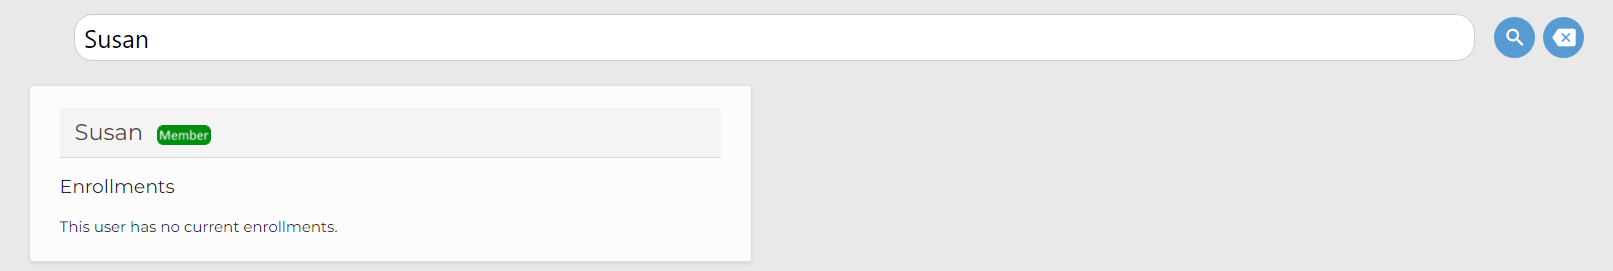
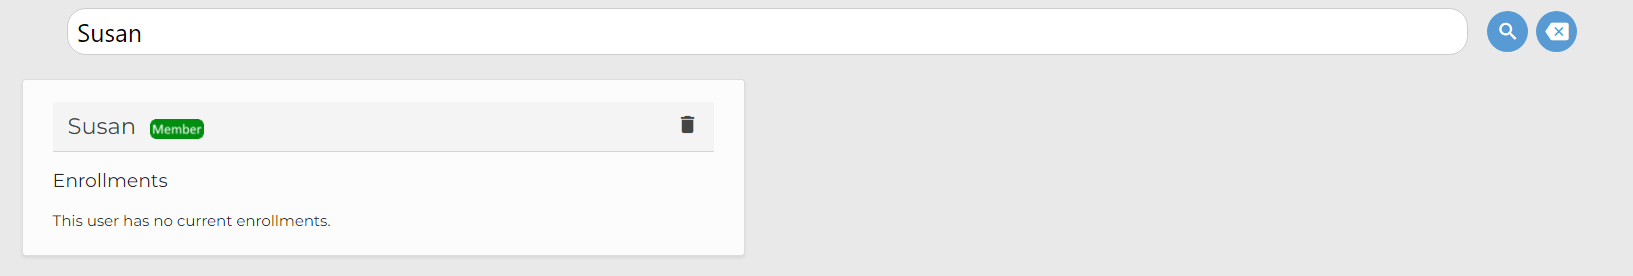
Added Deactivating User info to the User Manual
- Added a page in the Staff-Only section for deactivating another user's account
    - Added a link to this page on the Viewing a User and their Enrollments page
    - Updated the graphics on the Viewing a User and their Enrollments page to reflect the current visuals of the program

diff --git a/source/UserManual/StaffOnly/userdeactivate.rst b/source/UserManual/StaffOnly/userdeactivate.rst
@@ -1,0 +1,32 @@
+Deactivating a User's Account
+=============================
+
+If a user has violated our service policy, you will be instructed to deactivate the user's account.  Here are instructions on how to properly deactivate the account of any user.
+
+1. Log into your account and click the "Users" link at the top of the application.
+
+.. image:: img/userviewing1.png
+
+2. You will be greeted with a list of users, their credentials, and their current enrollments.
+
+.. image:: img/userviewing2.png
+
+3. Click the Deactivate icon in the right-hand corner of the user you would like to deactivate.
+
+.. image:: img/userdeactivate3.png
+
+4. You will be prompted to confirm your decision.  Please read the following before continuing.
+
+- Any of the user's future enrollments will be canceled and invalid for participation.
+- The user no longer be able to log into their account.
+- You will not be able to reactivate the user's account after it is deactivated.
+
+If you would like do proceed, click "Deactivate" in the prompt.
+
+.. image:: img/userdeactivate4.png
+
+The user will appear as inactive, and their enrollments will be canceled.
+
+.. image:: img/userdeactivate5.png
+
+Please note that you cannot deactivate your own account in this way.  Refer to the Profile page to deactivate your own account.

diff --git a/source/UserManual/StaffOnly/userviewing.rst b/source/UserManual/StaffOnly/userviewing.rst
@@ -21,4 +21,4 @@ To clear your search, simply hit the "Clear" button.
 
 .. image:: img/userviewing5.png
 
-Please ensure that the user information is consistent with the records of your assigned users.  If information looks out of place, please contact your senior Staff for further instructions.
+Please ensure that the user information is consistent with the records of your assigned users.  If information looks out of place, please see :doc:`userdeactivate`.

diff --git a/source/UserManual/StaffOnly/general.rst b/source/UserManual/StaffOnly/general.rst
@@ -9,6 +9,7 @@ This section of the User Manual is intended for the training of Staff members on
    Editing a Program <editprogram>
    Deactivating a Program <deactivateprogram>
    Viewing Users and their Enrollments <userviewing>
+   Deactivating a User's Account <userdeactivate>
 
 .. |UM link| raw:: html
 
